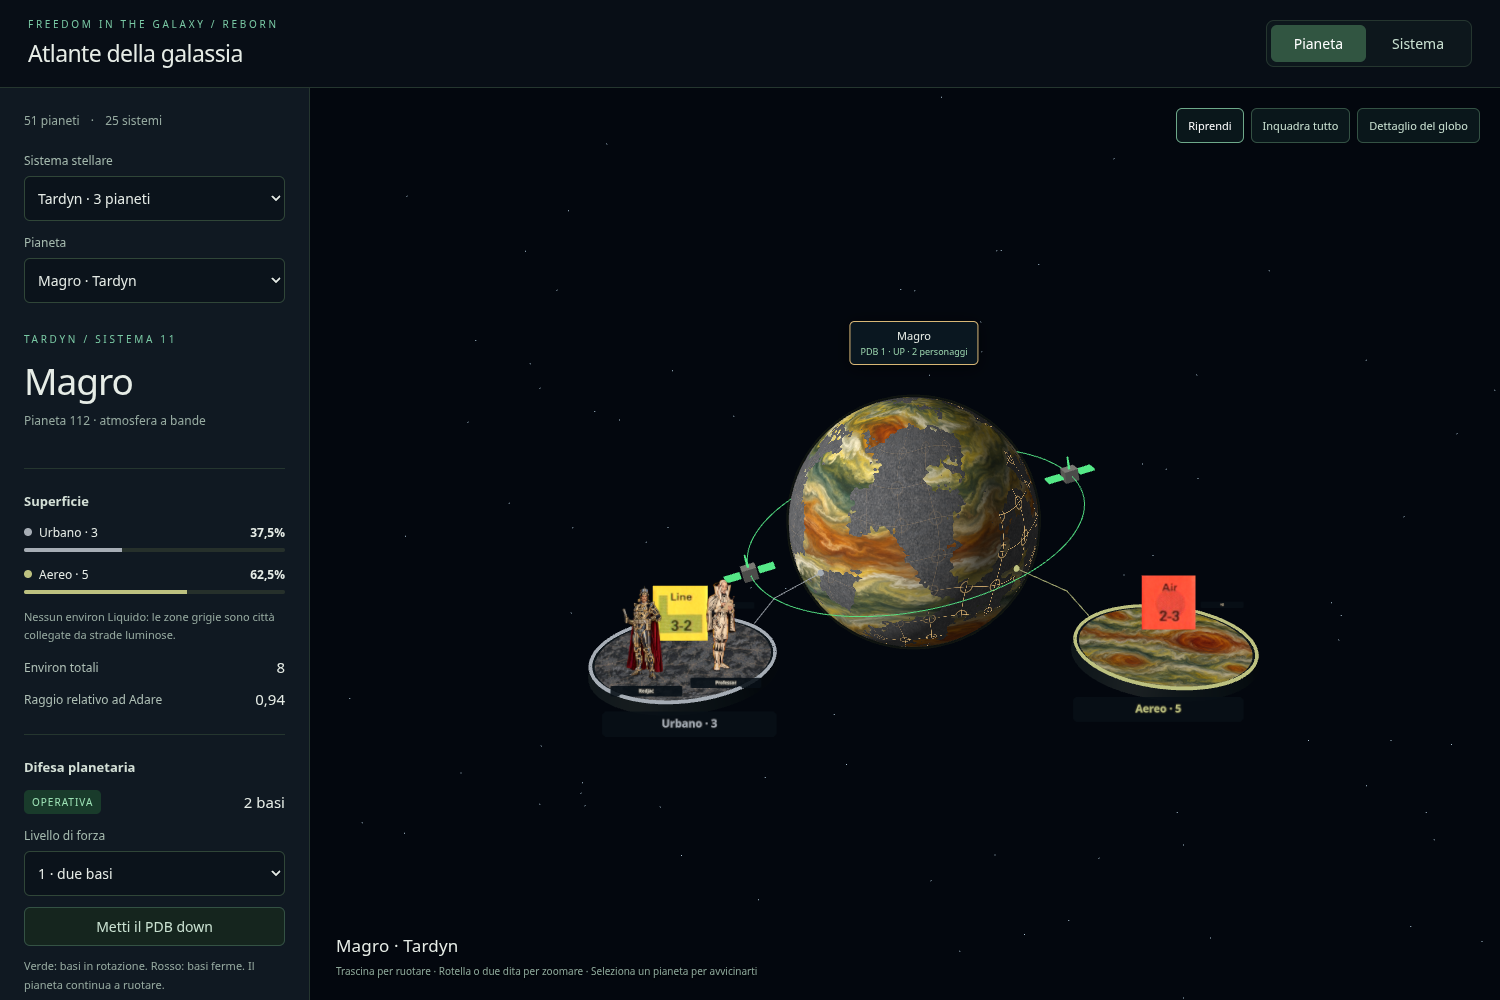
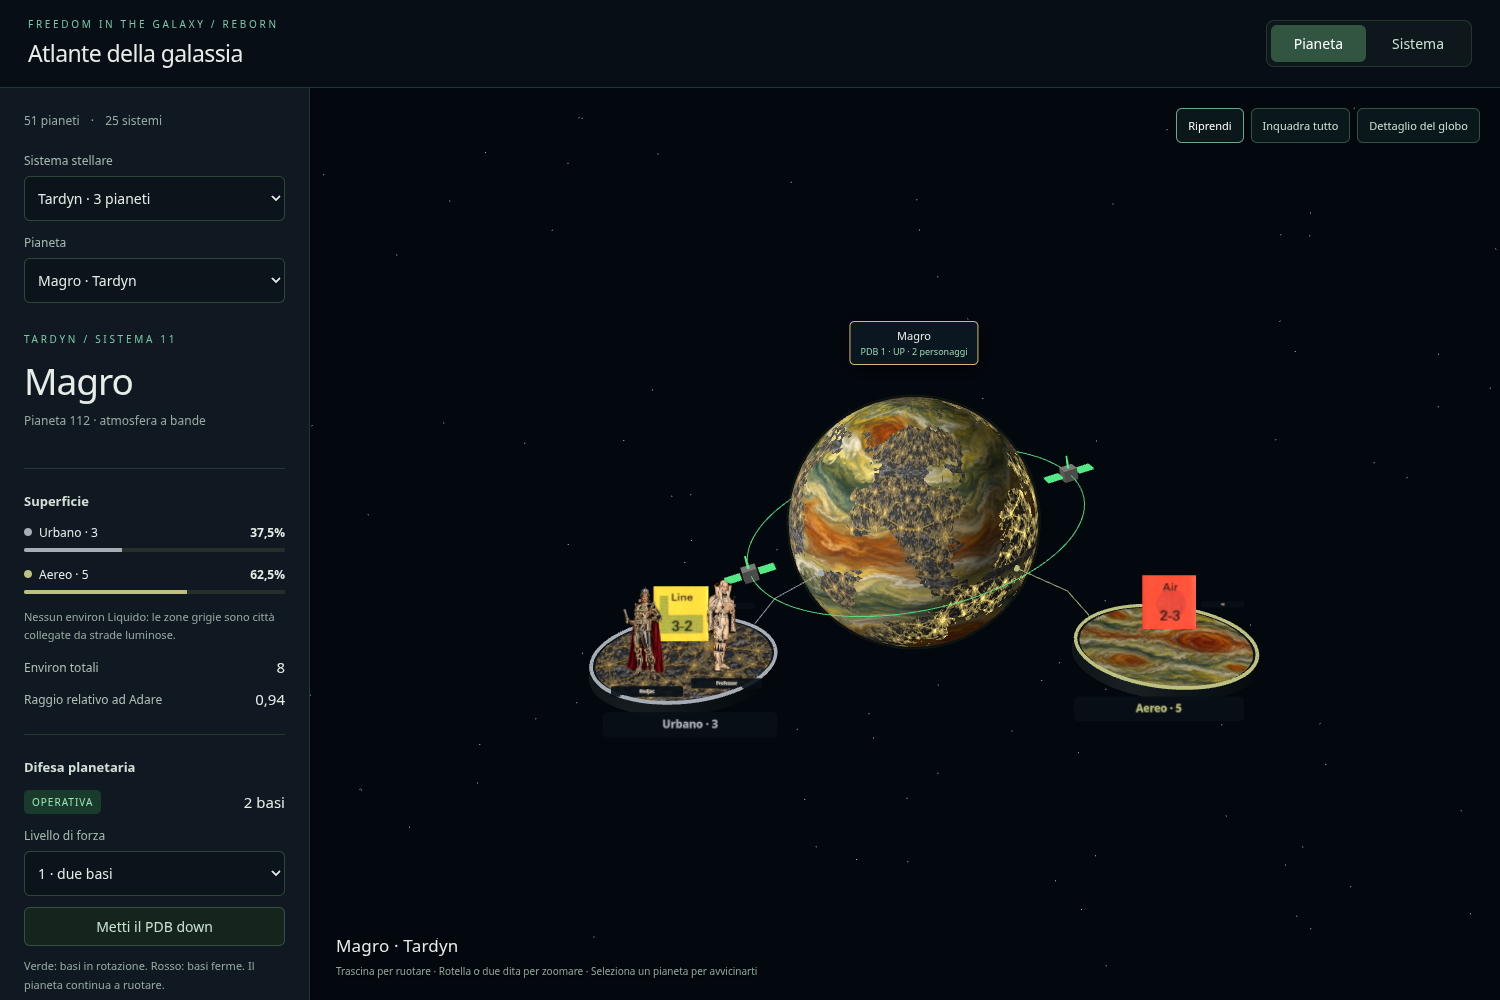
[pubblica] Rimuove la griglia luminosa e illumina le città della texture urbana

diff --git a/reborn/atlante/atlas.js b/reborn/atlante/atlas.js
@@ -44,7 +44,7 @@ void main(){
    vec3 delta=vec3(73.,86.,-5.)/255.;
    float airWeight=clamp(dot(mask-vec3(64.,122.,235.)/255.,delta)/dot(delta,delta),0.,1.);
    cityWeight=1.-airWeight;
-   city=mix(artSample(urbanArt,micro),artSample(urbanArt,regional*2.),.25);
+   city=mix(artSample(urbanArt,micro),texture2D(urbanArt,regional*2.).rgb,.80);
    // Storms are planetary structures: sample the complete atmosphere once.
    art=mix(city,texture2D(airArt,t).rgb,airWeight);
   }else if(painted>1.5){
@@ -62,19 +62,15 @@ void main(){
    float wr=clamp((u.x*q.y-u.y*q.x)/det,0.,1.);
    float ww=max(0.,1.-wu-wr);
    cityWeight=wu;
-   city=mix(artSample(urbanArt,micro),artSample(urbanArt,regional*2.),.25);
+   city=mix(artSample(urbanArt,micro),texture2D(urbanArt,regional*2.).rgb,.80);
    vec3 rock=mix(artSample(rockArt,micro),texture2D(rockArt,regional).rgb,.84);
    vec3 forest=mix(artSample(wildArt,micro),texture2D(wildArt,regional).rgb,.84);
    art=(city*wu+rock*wr+forest*ww)/(wu+wr+ww);
   }
-  // Preserve an emissive network between the small grey urban conglomerates.
-  float bright=clamp((dot(city,vec3(.2126,.7152,.0722))-.44)*3.,0.,1.);
-  vec2 roadUV=t*vec2(24.,12.)*detailScale;roadUV+=.13*sin(roadUV.yx*1.7);
-  float roadDist=min(abs(sin(roadUV.x*3.14159265)),abs(sin(roadUV.y*3.14159265)));
-  float roads=1.-smoothstep(.012,.045,roadDist);
-  vec2 localHub=fract(roadUV+.5)-.5;
-  float rings=1.-smoothstep(.008,.028,abs(length(localHub)-.18));
-  e=vec3(1.,.64,.23)*(pow(bright,3.)+.55*roads+.3*rings)*cityWeight;
+  // Emission comes only from yellow city and street details painted in the material.
+  // No separate geometric grid or repeated ring network is drawn over the surface.
+  float cityLight=clamp((min(city.r,city.g)-city.b-.015)*4.,0.,1.);
+  e=vec3(1.,.78,.22)*pow(cityLight,1.4)*1.2*cityWeight;
   a=pow(art,vec3(2.2));
  }
  vec3 l=normalize(sun-vWorld);float raw=dot(n,l);if(mode>1.5)raw=-.8;
@@ -105,7 +101,7 @@ function refreshDefense(model){const status=motions.get(model.p.id);const color=
 function updatePlanetLabel(m){const d=motions.get(m.p.id);m.label.replaceChildren();const name=document.createElement('span');name.textContent=m.p.nome;const detail=document.createElement('small');detail.textContent=`PDB ${d.level} · ${d.up?'UP':'DOWN'} · ${m.p.units.length} personaggi`;detail.style.color=d.up?'#9bd5ad':'#ff9480';m.label.append(name,detail);m.label.classList.toggle('selected',m.p.id===state.planet);}
 function findAnchor(map,kind,preferred,radius){const image=map.image,c=document.createElement('canvas');c.width=image.width;c.height=image.height;const ctx=c.getContext('2d',{willReadFrequently:true});ctx.drawImage(image,0,0);const rgba=ctx.getImageData(0,0,c.width,c.height).data;const target={urbano:[64,122,235],selvaggio:[77,168,77],sotterraneo:[163,73,62],liquido:[37,160,195],aereo:[137,208,230],fuoco:[241,111,32]}[kind];let best=-Infinity,found=null;for(let row=2;row<c.height-2;row+=4){for(let col=0;col<c.width;col+=4){const i=(row*c.width+col)*4;if(Math.abs(rgba[i]-target[0])+Math.abs(rgba[i+1]-target[1])+Math.abs(rgba[i+2]-target[2])>12)continue;const theta=row/(c.height-1)*Math.PI,phi=col/(c.width-1)*Math.PI*2;const n=new THREE.Vector3(-Math.cos(phi)*Math.sin(theta),Math.cos(theta),Math.sin(phi)*Math.sin(theta));const score=n.dot(preferred);if(score>best){best=score;found=n;}}}if(!found)throw Error(`Maschera ${kind} assente per il pianeta`);return found.multiplyScalar(radius*1.006);}
 async function environmentScenery(group,kind){
- const map=await spriteMap('environs/v3/'+kind+'.jpg');group.userData.environ=kind;
+ const map=await spriteMap('environs/'+(kind==='urbano'?'v4/':'v3/')+kind+'.jpg');group.userData.environ=kind;
  const floor=new THREE.Mesh(new THREE.CircleGeometry(1.29,64),new THREE.MeshBasicMaterial({map,color:0xc0c0c0}));floor.rotation.x=-Math.PI/2;floor.position.y=.087;floor.userData.environFloor=kind;group.add(floor);
 }
 // Keep units arranged toward the observer while the round terrain stage follows its anchor.
@@ -117,7 +113,7 @@ async function platforms(p,maps,radius){const root=new THREE.Group();const envCo
  }return root;}
 
 const painterlyPlanets=new Map([[432,'solvia'],[341,'midest'],[112,'magro'],[211,'cieson']]);
-let artPromise;const artMasks=new Map();async function painterlyMaps(id){artPromise??=Promise.all(['urbano','sotterraneo','selvaggio','liquido','aereo'].map(k=>globeArtTexture('painterly/v3/'+k+'.jpg')));if(!artMasks.has(id))artMasks.set(id,texture('painterly/'+painterlyPlanets.get(id)+'-mask.png'));const [art,mask]=await Promise.all([artPromise,artMasks.get(id)]);return [...art,mask];}
+let artPromise;const artMasks=new Map();async function painterlyMaps(id){artPromise??=Promise.all(['urbano','sotterraneo','selvaggio','liquido','aereo'].map(k=>globeArtTexture('painterly/'+(k==='urbano'?'v4/':'v3/')+k+'.jpg')));if(!artMasks.has(id))artMasks.set(id,texture('painterly/'+painterlyPlanets.get(id)+'-mask.png'));const [art,mask]=await Promise.all([artPromise,artMasks.get(id)]);return [...art,mask];}
 async function makePlanet(p){const maps=await planetMaps(p);const painted=painterlyPlanets.has(p.id)&&state.skin==='painterly';const art=painted?await painterlyMaps(p.id):[maps[0],maps[0],maps[0],maps[0],maps[0]];const radius=p.radius;const root=new THREE.Group(),body=new THREE.Group();root.add(body);const material=new THREE.ShaderMaterial({vertexShader:sphereVertex,fragmentShader:surfaceFragment,uniforms:{detailScale:{value:p.radius/2.3},painted:{value:painted?(p.id===341?2:(p.id===112||p.id===211?3:1)):0},urbanArt:{value:art[0]},rockArt:{value:art[1]},wildArt:{value:art[2]},waterArt:{value:art[3]},airArt:{value:art[4]},colorMap:{value:maps[0]},emissionMap:{value:maps[1]},terrainMap:{value:painted?art[5]:maps[2]},heightMap:{value:maps[3]},sun:{value:sunWorld},mode:{value:state.material}}});const sphere=new THREE.Mesh(new THREE.SphereGeometry(radius,64,40),material);sphere.userData.pid=p.id;body.add(sphere);
  const water=p.ambienti.some(e=>e.tipo==='liquido'),fire=p.ambienti.some(e=>e.tipo==='fuoco');const atmosphere=new THREE.Mesh(new THREE.SphereGeometry(radius*1.019,48,32),new THREE.ShaderMaterial({vertexShader:sphereVertex,fragmentShader:atmosphereFragment,uniforms:{tint:{value:new THREE.Color(painted&&p.ambienti.some(e=>e.tipo==='aereo')?0xb9bf6a:water?0x5488c2:fire?0xb76f32:0x718a69)}},transparent:true,side:THREE.BackSide,depthWrite:false}));body.add(atmosphere);
  const buildings=painted?null:cityBuildings(p,maps[2]);if(buildings)body.add(buildings);const units=await platforms(p,maps,radius);units.visible=state.units;body.add(units);const defense=new THREE.Group();defense.rotation.z=.17;defense.rotation.x=.13;root.add(defense);const defenseMaterial=new THREE.MeshBasicMaterial({color:0x55e887});const defenseRadius=radius+.8;defense.add(circle(defenseRadius,0x55e887,.9));const orbit=defense.children[0];const bases=new THREE.Group();defense.add(bases);

diff --git a/tools/templates/atlas/atlas.js b/tools/templates/atlas/atlas.js
@@ -44,7 +44,7 @@ void main(){
    vec3 delta=vec3(73.,86.,-5.)/255.;
    float airWeight=clamp(dot(mask-vec3(64.,122.,235.)/255.,delta)/dot(delta,delta),0.,1.);
    cityWeight=1.-airWeight;
-   city=mix(artSample(urbanArt,micro),artSample(urbanArt,regional*2.),.25);
+   city=mix(artSample(urbanArt,micro),texture2D(urbanArt,regional*2.).rgb,.80);
    // Storms are planetary structures: sample the complete atmosphere once.
    art=mix(city,texture2D(airArt,t).rgb,airWeight);
   }else if(painted>1.5){
@@ -62,19 +62,15 @@ void main(){
    float wr=clamp((u.x*q.y-u.y*q.x)/det,0.,1.);
    float ww=max(0.,1.-wu-wr);
    cityWeight=wu;
-   city=mix(artSample(urbanArt,micro),artSample(urbanArt,regional*2.),.25);
+   city=mix(artSample(urbanArt,micro),texture2D(urbanArt,regional*2.).rgb,.80);
    vec3 rock=mix(artSample(rockArt,micro),texture2D(rockArt,regional).rgb,.84);
    vec3 forest=mix(artSample(wildArt,micro),texture2D(wildArt,regional).rgb,.84);
    art=(city*wu+rock*wr+forest*ww)/(wu+wr+ww);
   }
-  // Preserve an emissive network between the small grey urban conglomerates.
-  float bright=clamp((dot(city,vec3(.2126,.7152,.0722))-.44)*3.,0.,1.);
-  vec2 roadUV=t*vec2(24.,12.)*detailScale;roadUV+=.13*sin(roadUV.yx*1.7);
-  float roadDist=min(abs(sin(roadUV.x*3.14159265)),abs(sin(roadUV.y*3.14159265)));
-  float roads=1.-smoothstep(.012,.045,roadDist);
-  vec2 localHub=fract(roadUV+.5)-.5;
-  float rings=1.-smoothstep(.008,.028,abs(length(localHub)-.18));
-  e=vec3(1.,.64,.23)*(pow(bright,3.)+.55*roads+.3*rings)*cityWeight;
+  // Emission comes only from yellow city and street details painted in the material.
+  // No separate geometric grid or repeated ring network is drawn over the surface.
+  float cityLight=clamp((min(city.r,city.g)-city.b-.015)*4.,0.,1.);
+  e=vec3(1.,.78,.22)*pow(cityLight,1.4)*1.2*cityWeight;
   a=pow(art,vec3(2.2));
  }
  vec3 l=normalize(sun-vWorld);float raw=dot(n,l);if(mode>1.5)raw=-.8;
@@ -105,7 +101,7 @@ function refreshDefense(model){const status=motions.get(model.p.id);const color=
 function updatePlanetLabel(m){const d=motions.get(m.p.id);m.label.replaceChildren();const name=document.createElement('span');name.textContent=m.p.nome;const detail=document.createElement('small');detail.textContent=`PDB ${d.level} · ${d.up?'UP':'DOWN'} · ${m.p.units.length} personaggi`;detail.style.color=d.up?'#9bd5ad':'#ff9480';m.label.append(name,detail);m.label.classList.toggle('selected',m.p.id===state.planet);}
 function findAnchor(map,kind,preferred,radius){const image=map.image,c=document.createElement('canvas');c.width=image.width;c.height=image.height;const ctx=c.getContext('2d',{willReadFrequently:true});ctx.drawImage(image,0,0);const rgba=ctx.getImageData(0,0,c.width,c.height).data;const target={urbano:[64,122,235],selvaggio:[77,168,77],sotterraneo:[163,73,62],liquido:[37,160,195],aereo:[137,208,230],fuoco:[241,111,32]}[kind];let best=-Infinity,found=null;for(let row=2;row<c.height-2;row+=4){for(let col=0;col<c.width;col+=4){const i=(row*c.width+col)*4;if(Math.abs(rgba[i]-target[0])+Math.abs(rgba[i+1]-target[1])+Math.abs(rgba[i+2]-target[2])>12)continue;const theta=row/(c.height-1)*Math.PI,phi=col/(c.width-1)*Math.PI*2;const n=new THREE.Vector3(-Math.cos(phi)*Math.sin(theta),Math.cos(theta),Math.sin(phi)*Math.sin(theta));const score=n.dot(preferred);if(score>best){best=score;found=n;}}}if(!found)throw Error(`Maschera ${kind} assente per il pianeta`);return found.multiplyScalar(radius*1.006);}
 async function environmentScenery(group,kind){
- const map=await spriteMap('environs/v3/'+kind+'.jpg');group.userData.environ=kind;
+ const map=await spriteMap('environs/'+(kind==='urbano'?'v4/':'v3/')+kind+'.jpg');group.userData.environ=kind;
  const floor=new THREE.Mesh(new THREE.CircleGeometry(1.29,64),new THREE.MeshBasicMaterial({map,color:0xc0c0c0}));floor.rotation.x=-Math.PI/2;floor.position.y=.087;floor.userData.environFloor=kind;group.add(floor);
 }
 // Keep units arranged toward the observer while the round terrain stage follows its anchor.
@@ -117,7 +113,7 @@ async function platforms(p,maps,radius){const root=new THREE.Group();const envCo
  }return root;}
 
 const painterlyPlanets=new Map([[432,'solvia'],[341,'midest'],[112,'magro'],[211,'cieson']]);
-let artPromise;const artMasks=new Map();async function painterlyMaps(id){artPromise??=Promise.all(['urbano','sotterraneo','selvaggio','liquido','aereo'].map(k=>globeArtTexture('painterly/v3/'+k+'.jpg')));if(!artMasks.has(id))artMasks.set(id,texture('painterly/'+painterlyPlanets.get(id)+'-mask.png'));const [art,mask]=await Promise.all([artPromise,artMasks.get(id)]);return [...art,mask];}
+let artPromise;const artMasks=new Map();async function painterlyMaps(id){artPromise??=Promise.all(['urbano','sotterraneo','selvaggio','liquido','aereo'].map(k=>globeArtTexture('painterly/'+(k==='urbano'?'v4/':'v3/')+k+'.jpg')));if(!artMasks.has(id))artMasks.set(id,texture('painterly/'+painterlyPlanets.get(id)+'-mask.png'));const [art,mask]=await Promise.all([artPromise,artMasks.get(id)]);return [...art,mask];}
 async function makePlanet(p){const maps=await planetMaps(p);const painted=painterlyPlanets.has(p.id)&&state.skin==='painterly';const art=painted?await painterlyMaps(p.id):[maps[0],maps[0],maps[0],maps[0],maps[0]];const radius=p.radius;const root=new THREE.Group(),body=new THREE.Group();root.add(body);const material=new THREE.ShaderMaterial({vertexShader:sphereVertex,fragmentShader:surfaceFragment,uniforms:{detailScale:{value:p.radius/2.3},painted:{value:painted?(p.id===341?2:(p.id===112||p.id===211?3:1)):0},urbanArt:{value:art[0]},rockArt:{value:art[1]},wildArt:{value:art[2]},waterArt:{value:art[3]},airArt:{value:art[4]},colorMap:{value:maps[0]},emissionMap:{value:maps[1]},terrainMap:{value:painted?art[5]:maps[2]},heightMap:{value:maps[3]},sun:{value:sunWorld},mode:{value:state.material}}});const sphere=new THREE.Mesh(new THREE.SphereGeometry(radius,64,40),material);sphere.userData.pid=p.id;body.add(sphere);
  const water=p.ambienti.some(e=>e.tipo==='liquido'),fire=p.ambienti.some(e=>e.tipo==='fuoco');const atmosphere=new THREE.Mesh(new THREE.SphereGeometry(radius*1.019,48,32),new THREE.ShaderMaterial({vertexShader:sphereVertex,fragmentShader:atmosphereFragment,uniforms:{tint:{value:new THREE.Color(painted&&p.ambienti.some(e=>e.tipo==='aereo')?0xb9bf6a:water?0x5488c2:fire?0xb76f32:0x718a69)}},transparent:true,side:THREE.BackSide,depthWrite:false}));body.add(atmosphere);
  const buildings=painted?null:cityBuildings(p,maps[2]);if(buildings)body.add(buildings);const units=await platforms(p,maps,radius);units.visible=state.units;body.add(units);const defense=new THREE.Group();defense.rotation.z=.17;defense.rotation.x=.13;root.add(defense);const defenseMaterial=new THREE.MeshBasicMaterial({color:0x55e887});const defenseRadius=radius+.8;defense.add(circle(defenseRadius,0x55e887,.9));const orbit=defense.children[0];const bases=new THREE.Group();defense.add(bases);

diff --git a/reborn/atlante/index.html b/reborn/atlante/index.html
@@ -9,4 +9,4 @@
 <section><h3>Visualizzazione</h3><label for="skin-select">Skin · prove pittoriche</label><select id="skin-select"><option value="original">Attuale</option><option value="painterly">Pittorica · colori degli ambienti</option></select><label for="material-mode">Aspetto del globo</label><select id="material-mode"><option value="0">Superficie naturale</option><option value="1">Mappa degli environ</option><option value="2">Lato notturno</option></select><label class="check"><input type="checkbox" id="show-units" checked> Piattaforme e unità</label><label class="check"><input type="checkbox" id="show-defense" checked> Orbita e basi PDB</label><label class="check"><input type="checkbox" id="show-labels" checked> Nomi dei pianeti</label><label for="speed">Velocità animazione <output id="speed-value">1×</output></label><input type="range" id="speed" min="0.25" max="3" step="0.25" value="1"></section>
 <p class="footnote">Le superfici rispettano la somma e le proporzioni degli environ. Distanze orbitali, stelle e tempi sono schematici. Le figure dei personaggi sono sagome su piattaforme.</p><a class="back" href="../">← Anteprime Reborn</a></aside>
 <section id="viewport" aria-label="Anteprima tridimensionale"><canvas id="scene"></canvas><div id="labels"></div><div class="scene-tools"><button id="pause" aria-pressed="false">Pausa</button><button id="reset">Inquadra tutto</button><button id="focus">Avvicina al pianeta</button></div><div id="loading" role="status">Preparazione dell’atlante…</div><div id="error" role="alert" hidden></div><div class="scene-caption"><strong id="view-caption">Adare</strong><span>Trascina per ruotare · Rotella o due dita per zoomare · Seleziona un pianeta per avvicinarti</span></div></section></main>
-<script type="module" src="./atlas.js?v=a633ea6bb04e"></script></body></html>
+<script type="module" src="./atlas.js?v=6b618600bf3b"></script></body></html>

diff --git a/reborn/ATLANTE.md b/reborn/ATLANTE.md
@@ -79,7 +79,7 @@ Quattro pianeti permettono il confronto tra skin attuale e pittorica; le altre 4
 - [Magro](https://tannoiser2.github.io/Freedom-in-the-Galaxy/reborn/atlante/?planet=112&skin=painterly): Urbano 3/8, Aereo 5/8.
 - [Cieson](https://tannoiser2.github.io/Freedom-in-the-Galaxy/reborn/atlante/?planet=211&skin=painterly): solo Aereo.
 
-Materiali in `atlante/painterly/v3/`: grigi urbani con strade emissive tra conglomerati; crepacci scuri, rosso cupo e ocra per Sotterraneo; montagne e diversi verdi per Selvaggio; oceani blu con isolotti decorativi radi per Liquido; bande acide e grandi tempeste rosse per Aereo. Maschere originali a 2048×1024, senza modifiche ai dati di gioco. Gli isolotti illustrativi restano classificati Liquido.
+Materiali in `atlante/painterly/v3/`, con Urbano aggiornato in `atlante/painterly/v4/`: grigi urbani con strade emissive tra conglomerati; crepacci scuri, rosso cupo e ocra per Sotterraneo; montagne e diversi verdi per Selvaggio; oceani blu con isolotti decorativi radi per Liquido; bande acide e grandi tempeste rosse per Aereo. Maschere originali a 2048×1024, senza modifiche ai dati di gioco. Gli isolotti illustrativi restano classificati Liquido.
 
 ## Scala planetaria e basi degli ambienti
 
@@ -88,3 +88,7 @@ Edifici e alberi restano dettagli minuti. Montagne e crepacci hanno una scala re
 Su tutti i 51 pianeti, l’immagine dell’ambiente compare **solo sulla base rotonda**. Nessun pannello verticale dietro le unità. Nome, bordo colorato e collegamento al bioma identificano la collocazione di truppe e personaggi. Immagini di tutti e sei gli ambienti in `atlante/environs/v3/`.
 
 Il test `python tests/atlas_browser.py` verifica per tutti i pianeti la presenza del terreno, l’assenza di fondali e la collocazione delle unità. `python tests/materials_v3_browser.py` verifica i quattro globi pittorici, le basi e la rete urbana sul lato notturno. Le prove precedenti di Solvia e Midest restano verificabili con i relativi test dedicati. Aggiungere `&isolated=1` al link nasconde inizialmente unità, PDB e nomi.
+
+### Urbano: luci nella texture
+
+La revisione urbana 4 elimina la rete geometrica di linee e anelli sovrapposta allo shader. Le città e le strade già disegnate nel materiale sono più gialle e luminose; l’emissione notturna viene ricavata esclusivamente dai loro dettagli gialli, con fondo grigio conservato. La trama regionale conserva i collegamenti dipinti tra conglomerati e il dettaglio minuto resta a scala planetaria. Stesso materiale sulla base rotonda urbana, senza fondali verticali.

diff --git a/reborn/atlante/environs/LEGGIMI.md b/reborn/atlante/environs/LEGGIMI.md
@@ -1,7 +1,7 @@
 # Basi degli ambienti
 
-La versione corrente è `v3/`: sei immagini condivise a 512×256, con palette fissa per ambiente. Urbano grigio con strade luminose; Sotterraneo con crepacci scuri, rocce rosse e ocra; Selvaggio con montagne e vari verdi; Liquido con isolotti radi; Aereo con nubi acide e tempeste; Fuoco con lava e basalto.
+La versione corrente è `v3/`, con Urbano aggiornato in `v4/`: sei immagini condivise a 512×256, con palette fissa per ambiente. Urbano grigio con strade luminose; Sotterraneo con crepacci scuri, rocce rosse e ocra; Selvaggio con montagne e vari verdi; Liquido con isolotti radi; Aereo con nubi acide e tempeste; Fuoco con lava e basalto.
 
 L’immagine compare soltanto sulla base rotonda. Nessun pannello o fondale verticale dietro personaggi e truppe. Nome, bordo colorato e collegamento al globo identificano l’ambiente. Le unità restano una rappresentazione tattica ingrandita.
 
-Cinque immagini derivano dai materiali in `../painterly/v3/`; Fuoco conserva l’illustrazione precedente. File locali, senza servizi esterni durante l’uso.
+Le immagini derivano dai materiali in `../painterly/v3/` e, per Urbano, `../painterly/v4/`; Fuoco conserva l’illustrazione precedente. File locali, senza servizi esterni durante l’uso.

diff --git a/reborn/atlante/painterly/LEGGIMI.md b/reborn/atlante/painterly/LEGGIMI.md
@@ -1,5 +1,5 @@
 # Prove pittoriche
 
-La revisione corrente è descritta in [v3/LEGGIMI.md](v3/LEGGIMI.md). Comprende Solvia, Midest, Magro e Cieson, con palette condivise tra pianeti e cinque materiali aggiornati.
+I materiali correnti sono descritti in [v3/LEGGIMI.md](v3/LEGGIMI.md), con Urbano aggiornato in [v4/LEGGIMI.md](v4/LEGGIMI.md). Comprende Solvia, Midest, Magro e Cieson, con palette condivise tra pianeti e cinque materiali aggiornati.
 
 Le mappe e i prompt in questa cartella documentano la prima prova. Le maschere originali sono riutilizzate anche dalla revisione corrente. Nessuna modifica alle quote degli ambienti o ai dati di gioco.

diff --git a/reborn/atlante/painterly/v4/LEGGIMI.md b/reborn/atlante/painterly/v4/LEGGIMI.md
@@ -1,0 +1,5 @@
+# Urbano — revisione 4
+
+Città grigie con nuclei e finestre più gialli e luminosi; il reticolo di strade dipinto nella texture è più brillante. Nessuna rete geometrica viene sovrapposta al globo. L’emissione usa soltanto i dettagli gialli del materiale, per seguire città e strade reali della texture anche sul lato notturno.
+
+Il disegno resta a scala planetaria: edifici minuti, conglomerati e collegamenti leggibili. Materiale condiviso da Solvia e Magro. Copia ridotta per la sola base rotonda in `../../environs/v4/urbano.jpg`. Gli altri materiali restano quelli della revisione 3; le maschere degli ambienti non cambiano.
